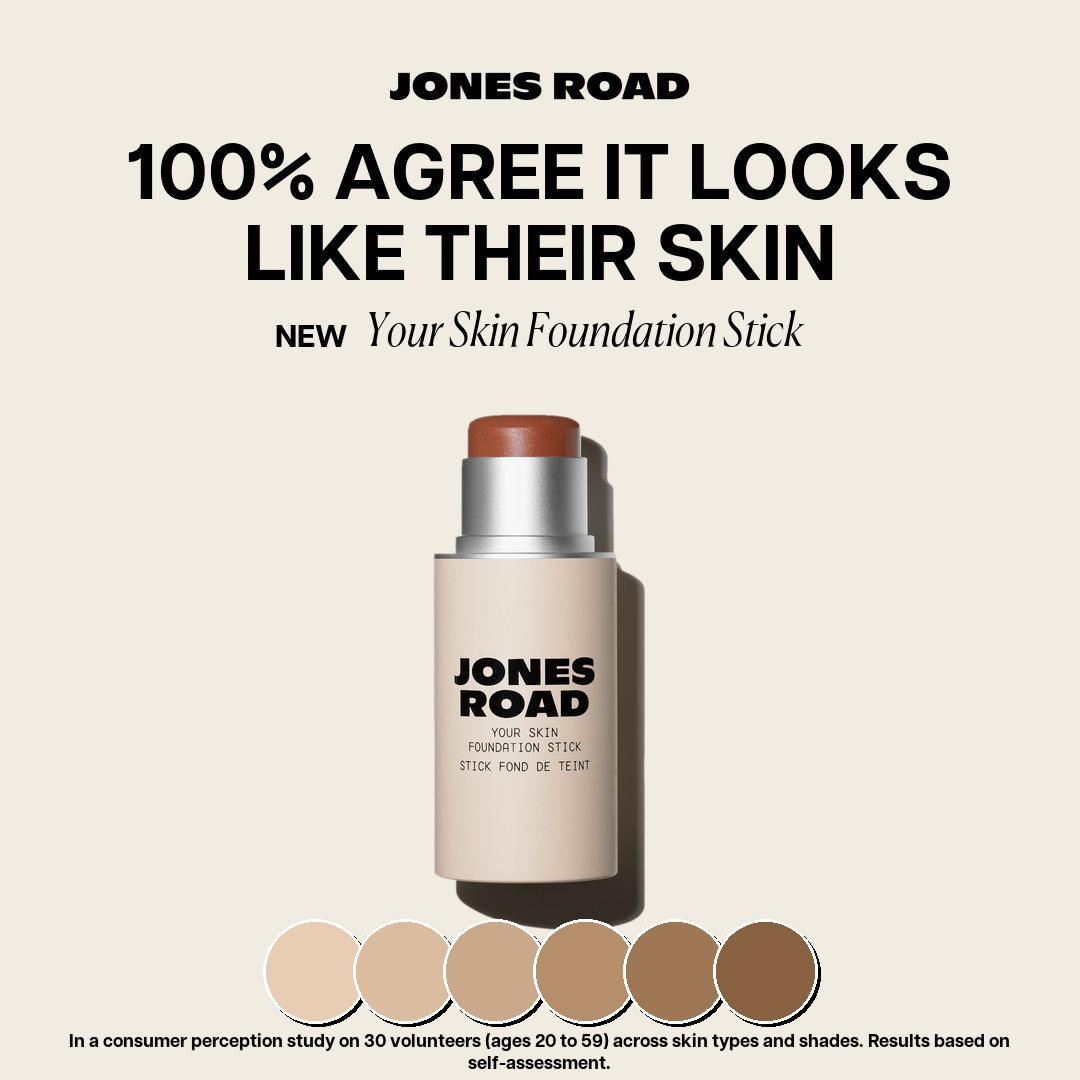
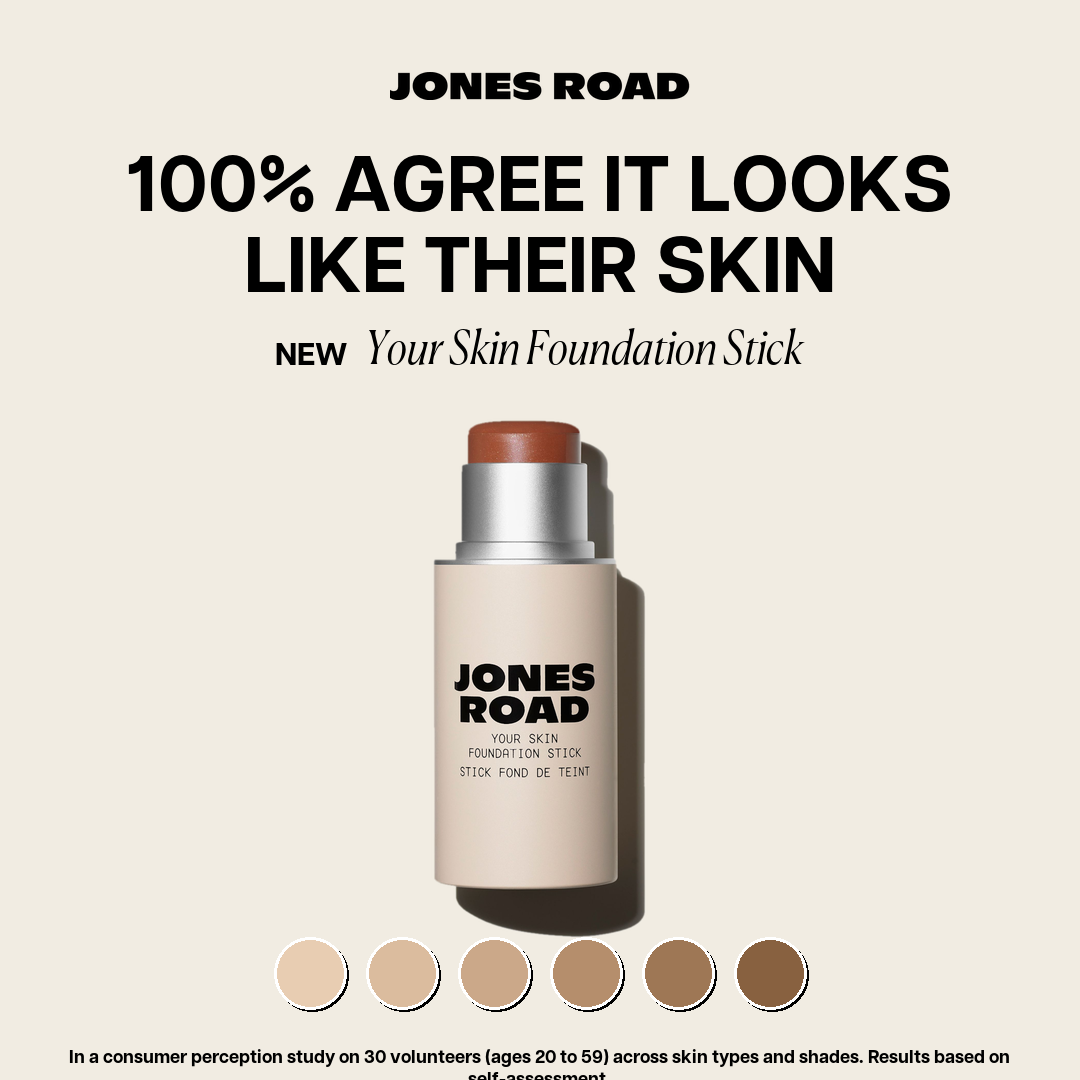
claim-italic-retailer: smaller non-overlapping swatches + better vertical spacing

diff --git a/template-review/index.html b/template-review/index.html
@@ -3,7 +3,7 @@
 <head>
 <meta charset="utf-8">
 <meta name="viewport" content="width=device-width,initial-scale=1">
-<title>Review queue — 3 templates &middot; 9 ads</title>
+<title>Review queue — 1 templates &middot; 3 ads</title>
 <style>
   *, *::before, *::after { box-sizing: border-box; margin: 0; padding: 0; }
   body { font-family: -apple-system, sans-serif; background: #f0f0f0; color: #111; padding: 32px 24px 80px; }
@@ -36,27 +36,10 @@
 </head>
 <body>
 <header>
-  <h1>Review queue <span class="badge">3 templates &middot; 9 ads</span></h1>
+  <h1>Review queue <span class="badge">1 templates &middot; 3 ads</span></h1>
   <p>Green border + dot = updated in the last 2 hours. To approve, add prefix to lib/approved.txt.</p>
 </header>
 
-  <section class="template-group">
-    <h2>Bold Quote Deal 3Col <span class='fresh-pill'>UPDATED</span></h2>
-    <div class="variants">
-        <figure class="card fresh">
-          <img src="ads/bold-quote-deal-3col-01-yellow-100pct-skin-1x1.png" loading="lazy" alt="bold-quote-deal-3col-01-yellow-100pct-skin-1x1">
-          <figcaption><span class='dot fresh-dot'></span>bold-quote-deal-3col-01-yellow-100pct-skin-1x1<span class="age">24m ago</span></figcaption>
-        </figure>
-        <figure class="card fresh">
-          <img src="ads/bold-quote-deal-3col-02-pink-coverage-natural-1x1.png" loading="lazy" alt="bold-quote-deal-3col-02-pink-coverage-natural-1x1">
-          <figcaption><span class='dot fresh-dot'></span>bold-quote-deal-3col-02-pink-coverage-natural-1x1<span class="age">24m ago</span></figcaption>
-        </figure>
-        <figure class="card fresh">
-          <img src="ads/bold-quote-deal-3col-03-black-feels-hydrating-1x1.png" loading="lazy" alt="bold-quote-deal-3col-03-black-feels-hydrating-1x1">
-          <figcaption><span class='dot fresh-dot'></span>bold-quote-deal-3col-03-black-feels-hydrating-1x1<span class="age">24m ago</span></figcaption>
-        </figure>
-    </div>
-  </section>
   <section class="template-group">
     <h2>Claim Italic Retailer <span class='fresh-pill'>UPDATED</span></h2>
     <div class="variants">
@@ -71,23 +54,6 @@
         <figure class="card fresh">
           <img src="ads/claim-italic-retailer-03-offwhite-97pct-hydrating-1x1.png" loading="lazy" alt="claim-italic-retailer-03-offwhite-97pct-hydrating-1x1">
           <figcaption><span class='dot fresh-dot'></span>claim-italic-retailer-03-offwhite-97pct-hydrating-1x1<span class="age">just now</span></figcaption>
-        </figure>
-    </div>
-  </section>
-  <section class="template-group">
-    <h2>Social Comments Stack <span class='fresh-pill'>UPDATED</span></h2>
-    <div class="variants">
-        <figure class="card fresh">
-          <img src="ads/social-comments-stack-01-white-feels-weightless-1x1.png" loading="lazy" alt="social-comments-stack-01-white-feels-weightless-1x1">
-          <figcaption><span class='dot fresh-dot'></span>social-comments-stack-01-white-feels-weightless-1x1<span class="age">51m ago</span></figcaption>
-        </figure>
-        <figure class="card fresh">
-          <img src="ads/social-comments-stack-02-gray-looks-like-skin-1x1.png" loading="lazy" alt="social-comments-stack-02-gray-looks-like-skin-1x1">
-          <figcaption><span class='dot fresh-dot'></span>social-comments-stack-02-gray-looks-like-skin-1x1<span class="age">51m ago</span></figcaption>
-        </figure>
-        <figure class="card fresh">
-          <img src="ads/social-comments-stack-03-cream-goldilocks-1x1.png" loading="lazy" alt="social-comments-stack-03-cream-goldilocks-1x1">
-          <figcaption><span class='dot fresh-dot'></span>social-comments-stack-03-cream-goldilocks-1x1<span class="age">51m ago</span></figcaption>
         </figure>
     </div>
   </section>
